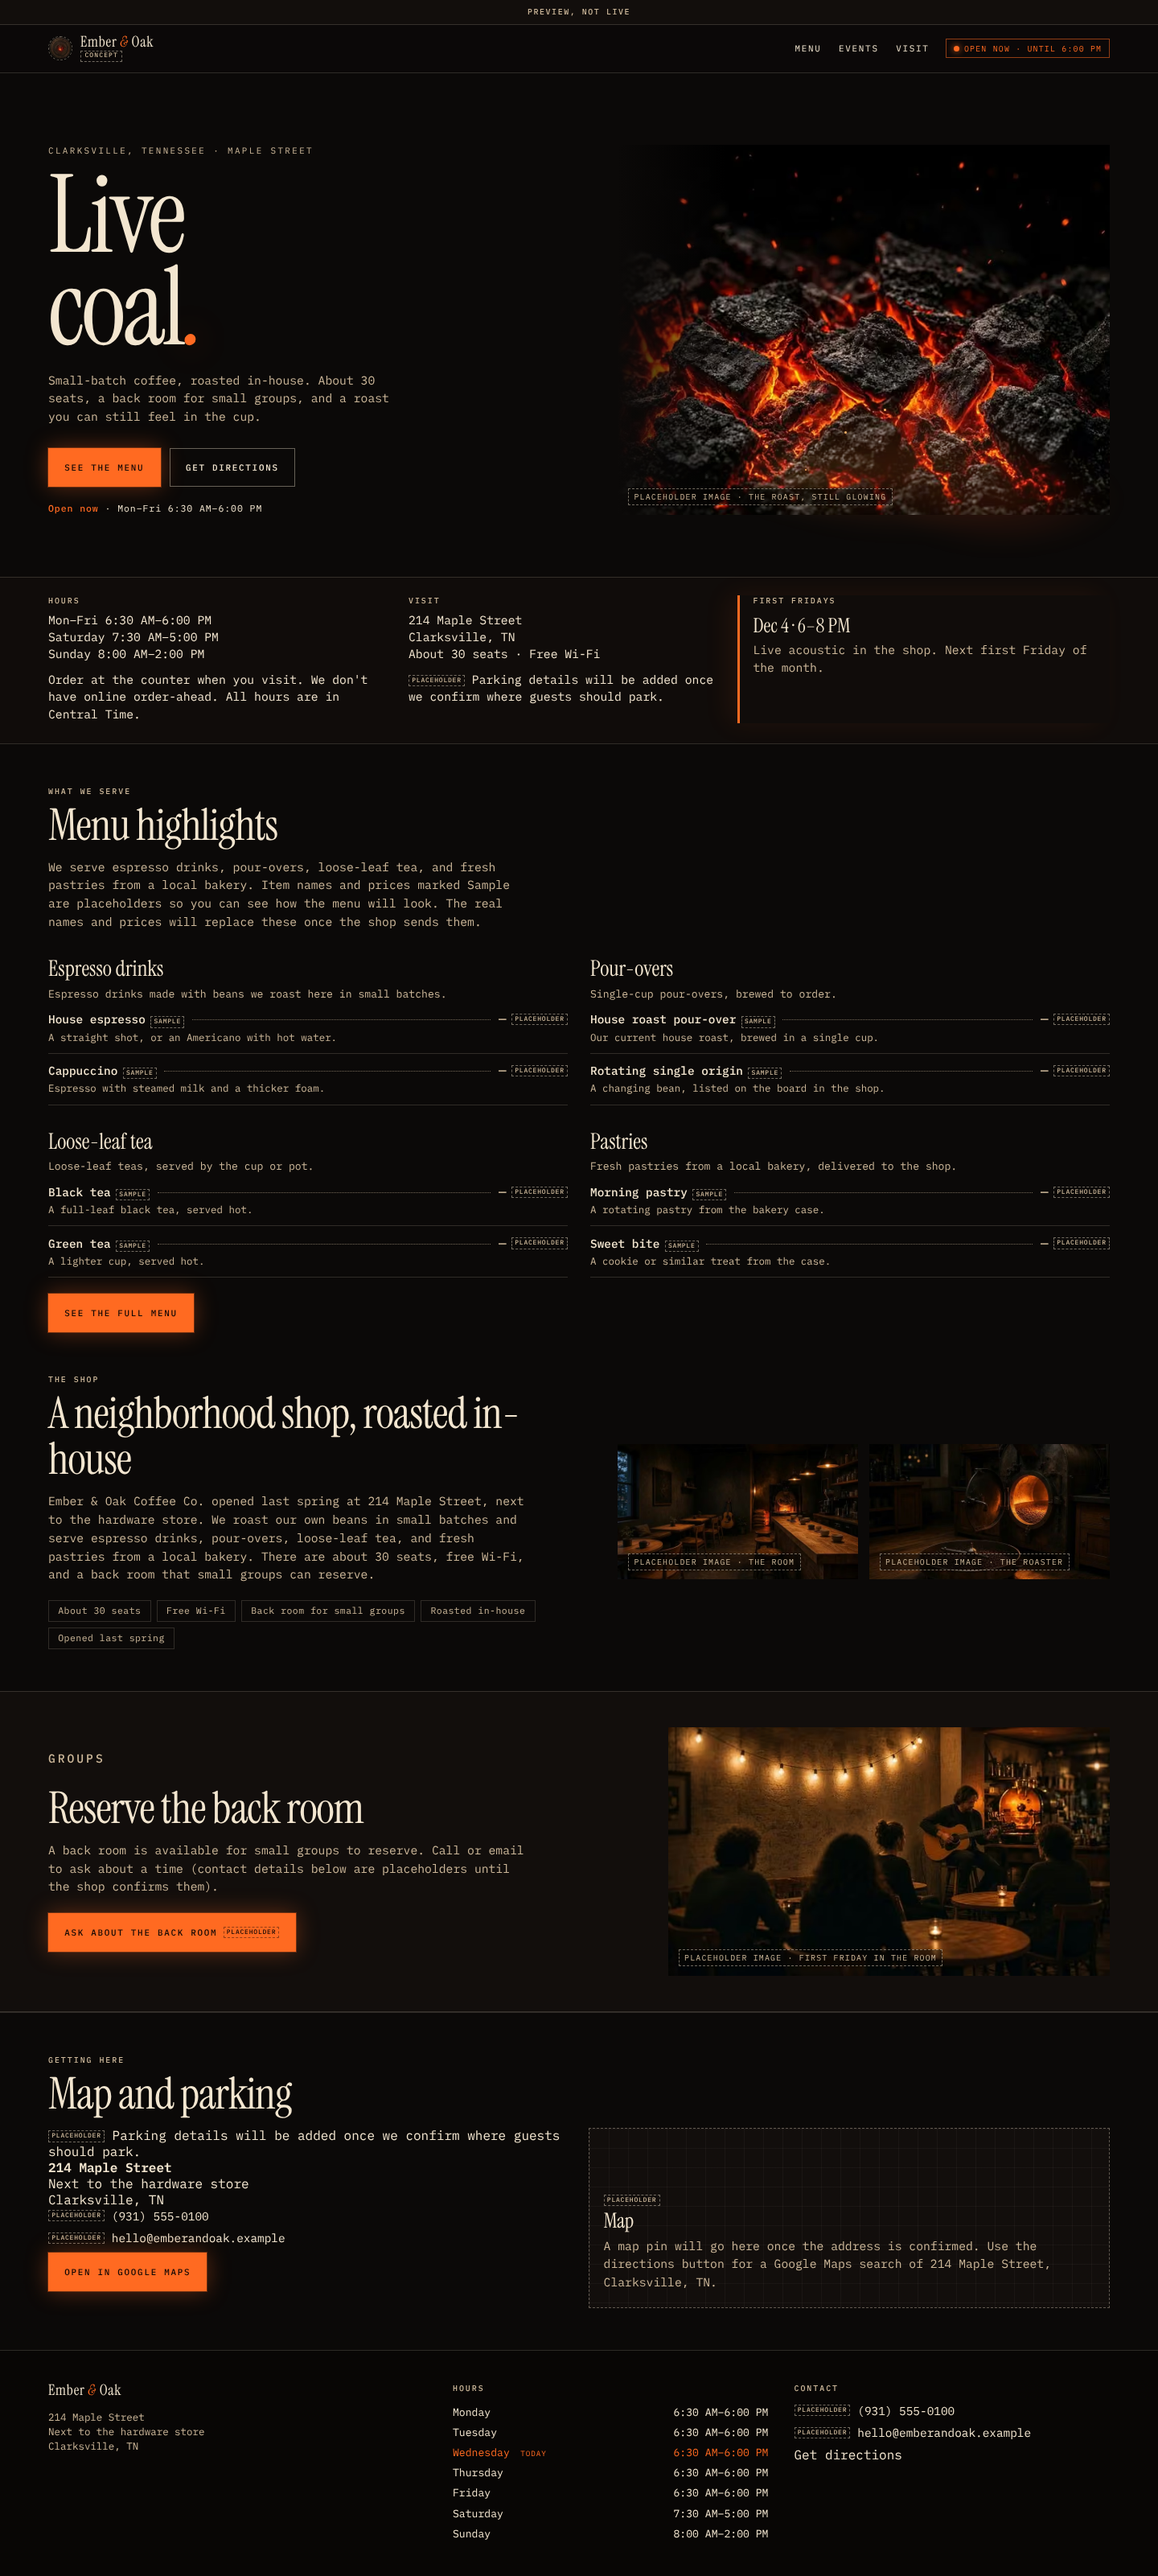
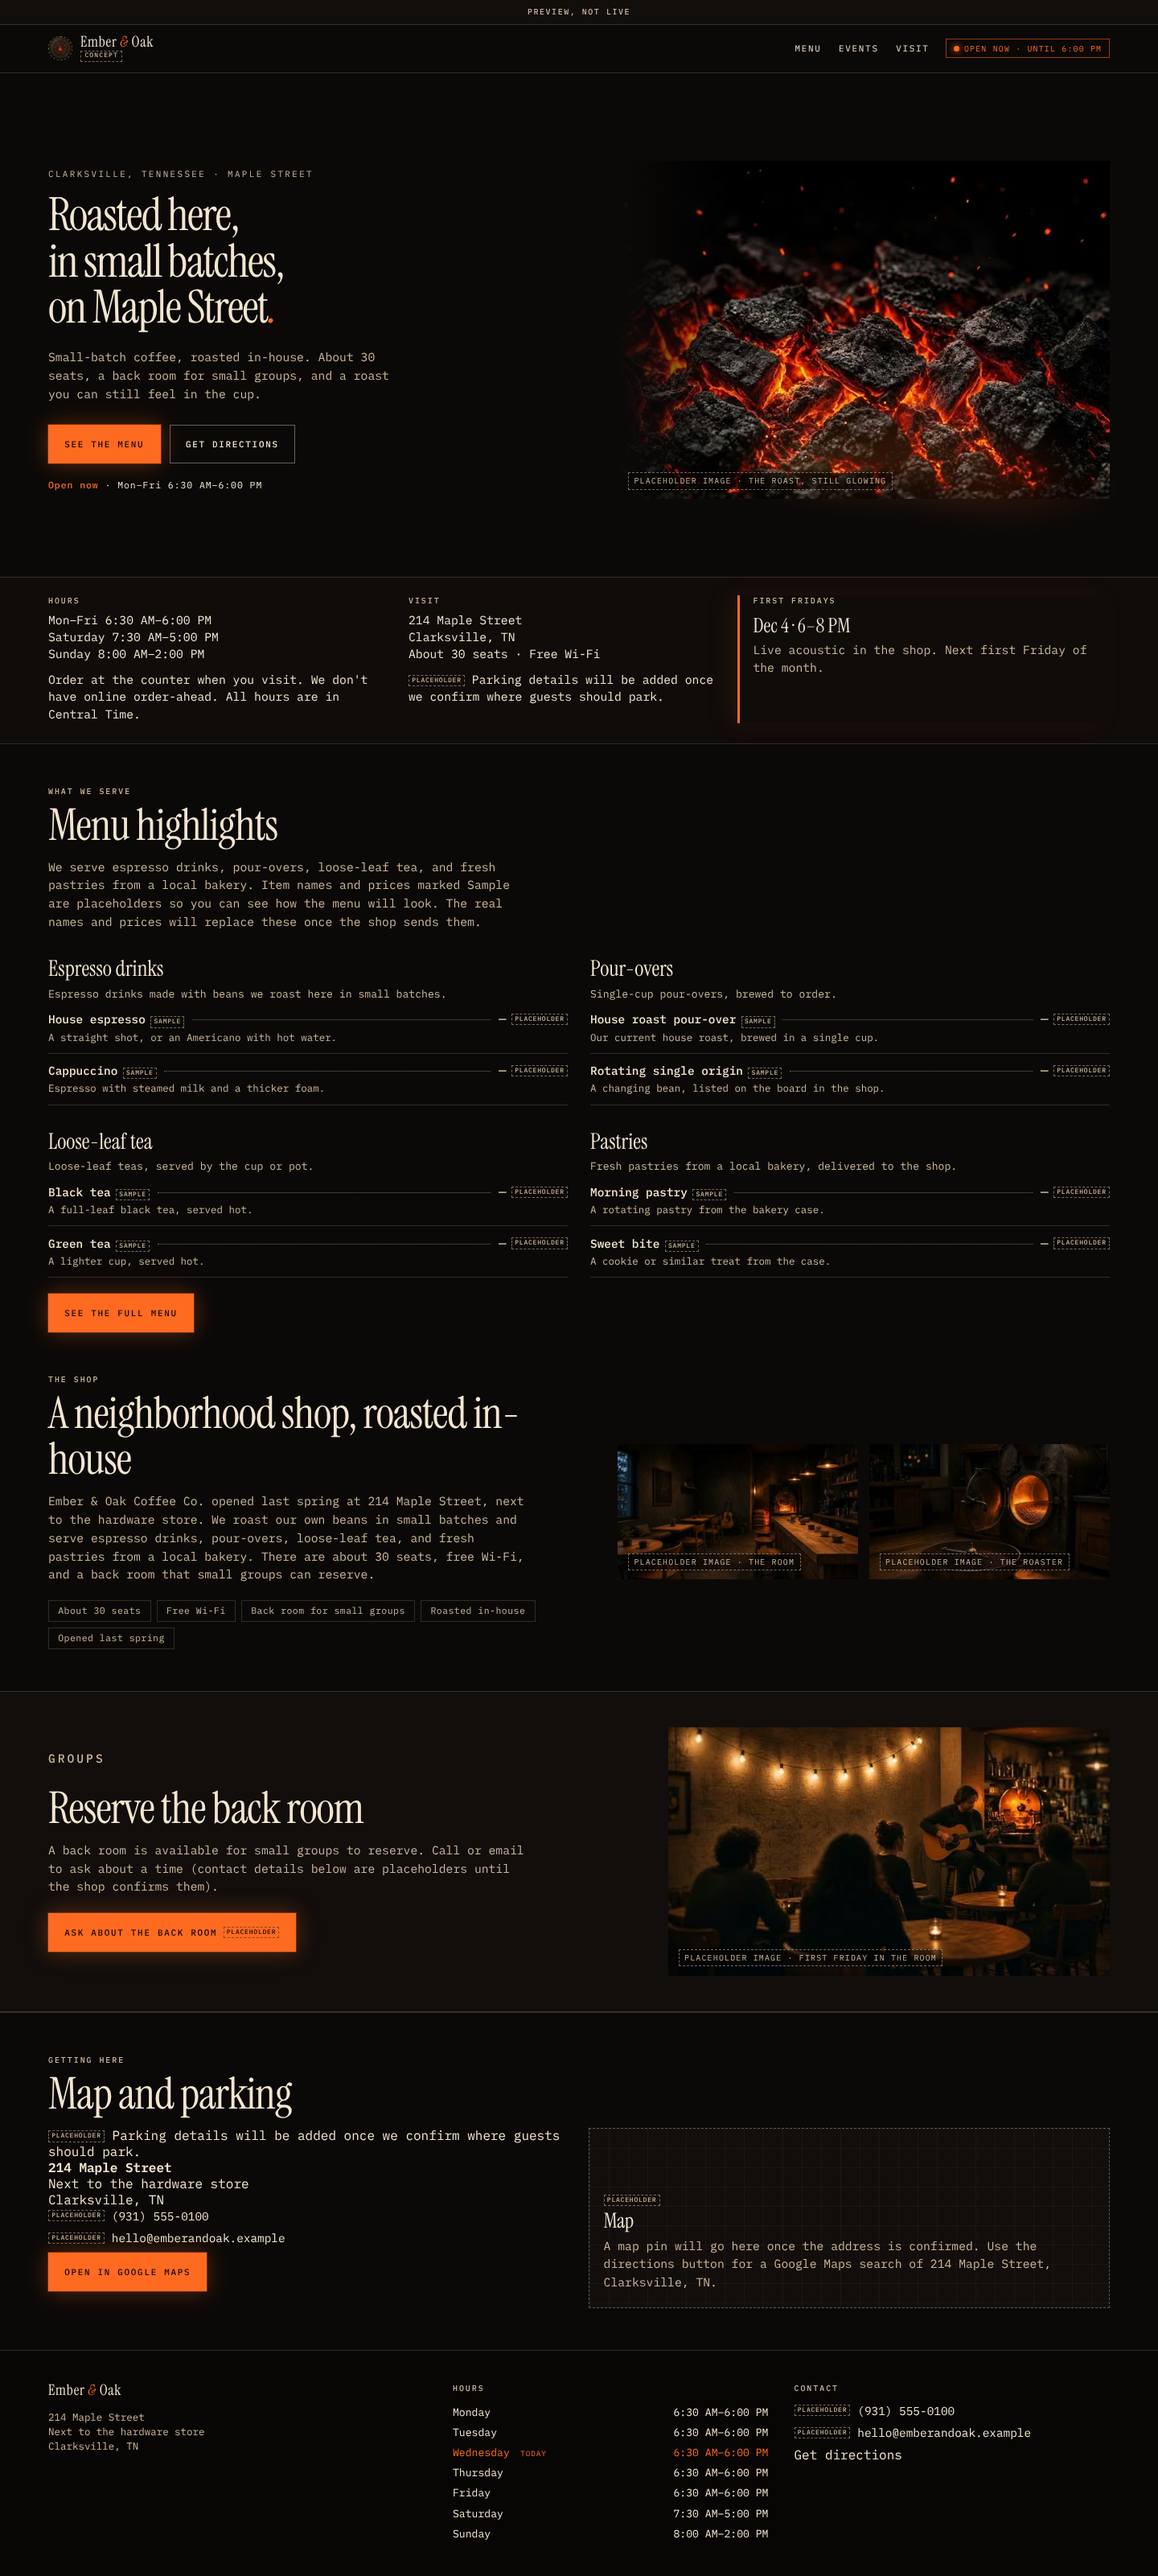
Replace the Live Coal hero headline with shop-focused copy
The homepage heading is now "Roasted here, in small batches, on
Maple Street." The phrase "Live coal" is gone from visible page
copy. The longer headline is sized and broken across three lines
so it fits on phone and desktop and stays readable over the coals.

Changed region(s): [[0.5312, 0.0937, 0.9688, 0.2186], [0.0312, 0.0625, 0.3125, 0.2186]]

diff --git a/assets/css/style.css b/assets/css/style.css
@@ -1,4 +1,4 @@
-/* Ember & Oak Coffee Co. — Live Coal direction
+/* Ember & Oak Coffee Co. preview — charcoal, cream, ember CTA
    Charcoal #0B0908, cream #F3E6D0, ember CTA #FF6A21 with dark #140806 type.
    Instrument Serif + IBM Plex Mono. Contrast checked 25 Nov 2026 (see README).
    Do not put white or cream type on the ember button (fails AA). */
@@ -236,10 +236,11 @@ a:hover { color: var(--ember); }
 .hero-headline {
   font-family: var(--font-display);
   font-weight: 400;
-  font-size: clamp(4.4rem, 10.2vw, 8.4rem);
-  line-height: 0.86;
+  font-size: clamp(2.15rem, 4.2vw, 3.55rem);
+  line-height: 1.02;
   letter-spacing: -0.03em;
   color: var(--text);
+  max-width: 11.5em;
 }
 .hero-headline em {
   font-style: italic;
@@ -708,7 +709,11 @@ a:hover { color: var(--ember); }
     height: 100%;
     background: linear-gradient(180deg, rgba(11,9,8,0.5) 0%, rgba(11,9,8,0.2) 40%, rgba(11,9,8,0.88) 100%);
   }
-  .hero-headline { font-size: 4.2rem; }
+  .hero-headline {
+    font-size: clamp(2.15rem, 8.6vw, 2.55rem);
+    max-width: none;
+    line-height: 1.04;
+  }
   .hero .photo-label {
     top: 0.75rem;
     bottom: auto;

diff --git a/preview-site/assets/css/style.css b/preview-site/assets/css/style.css
@@ -1,4 +1,4 @@
-/* Ember & Oak Coffee Co. — Live Coal direction
+/* Ember & Oak Coffee Co. preview — charcoal, cream, ember CTA
    Charcoal #0B0908, cream #F3E6D0, ember CTA #FF6A21 with dark #140806 type.
    Instrument Serif + IBM Plex Mono. Contrast checked 25 Nov 2026 (see README).
    Do not put white or cream type on the ember button (fails AA). */
@@ -236,10 +236,11 @@ a:hover { color: var(--ember); }
 .hero-headline {
   font-family: var(--font-display);
   font-weight: 400;
-  font-size: clamp(4.4rem, 10.2vw, 8.4rem);
-  line-height: 0.86;
+  font-size: clamp(2.15rem, 4.2vw, 3.55rem);
+  line-height: 1.02;
   letter-spacing: -0.03em;
   color: var(--text);
+  max-width: 11.5em;
 }
 .hero-headline em {
   font-style: italic;
@@ -708,7 +709,11 @@ a:hover { color: var(--ember); }
     height: 100%;
     background: linear-gradient(180deg, rgba(11,9,8,0.5) 0%, rgba(11,9,8,0.2) 40%, rgba(11,9,8,0.88) 100%);
   }
-  .hero-headline { font-size: 4.2rem; }
+  .hero-headline {
+    font-size: clamp(2.15rem, 8.6vw, 2.55rem);
+    max-width: none;
+    line-height: 1.04;
+  }
   .hero .photo-label {
     top: 0.75rem;
     bottom: auto;

diff --git a/index.html b/index.html
@@ -8,7 +8,7 @@ description: Ember & Oak Coffee Co. is a neighborhood coffee shop at 214 Maple S
   <div class="wrap hero-grid">
     <div class="hero-copy">
       <p class="eyebrow">{{ site.data.site.hero.eyebrow }}</p>
-      <h1 class="hero-headline">{{ site.data.site.hero.headline_line1 }}<br>{{ site.data.site.hero.headline_line2 }}<em>.</em></h1>
+      <h1 class="hero-headline">{{ site.data.site.hero.headline_line1 }}<br>{{ site.data.site.hero.headline_line2 }}<br>{{ site.data.site.hero.headline_line3 }}<em>.</em></h1>
       <p class="sub">{{ site.data.site.hero.subhead }}</p>
       <div class="actions">
         <a class="btn btn-ember" href="{{ site.data.site.hero.cta_primary_href }}">{{ site.data.site.hero.cta_primary }}</a>

diff --git a/preview-site/index.html b/preview-site/index.html
@@ -54,7 +54,7 @@
   <div class="wrap hero-grid">
     <div class="hero-copy">
       <p class="eyebrow">Clarksville, Tennessee · Maple Street</p>
-      <h1 class="hero-headline">Live<br>coal<em>.</em></h1>
+      <h1 class="hero-headline">Roasted here,<br>in small batches,<br>on Maple Street<em>.</em></h1>
       <p class="sub">Small-batch coffee, roasted in-house. About 30 seats, a back room for small groups, and a roast you can still feel in the cup.</p>
       <div class="actions">
         <a class="btn btn-ember" href="menu.html">See the menu</a>
